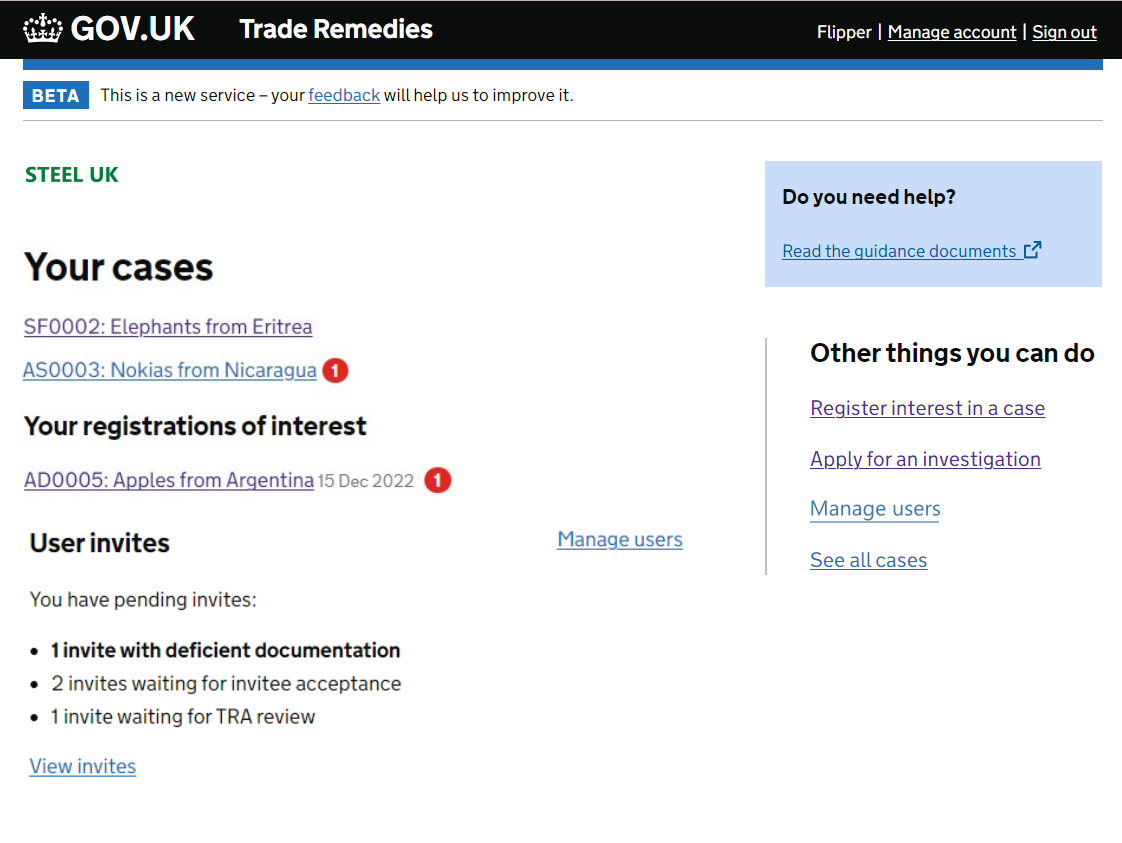
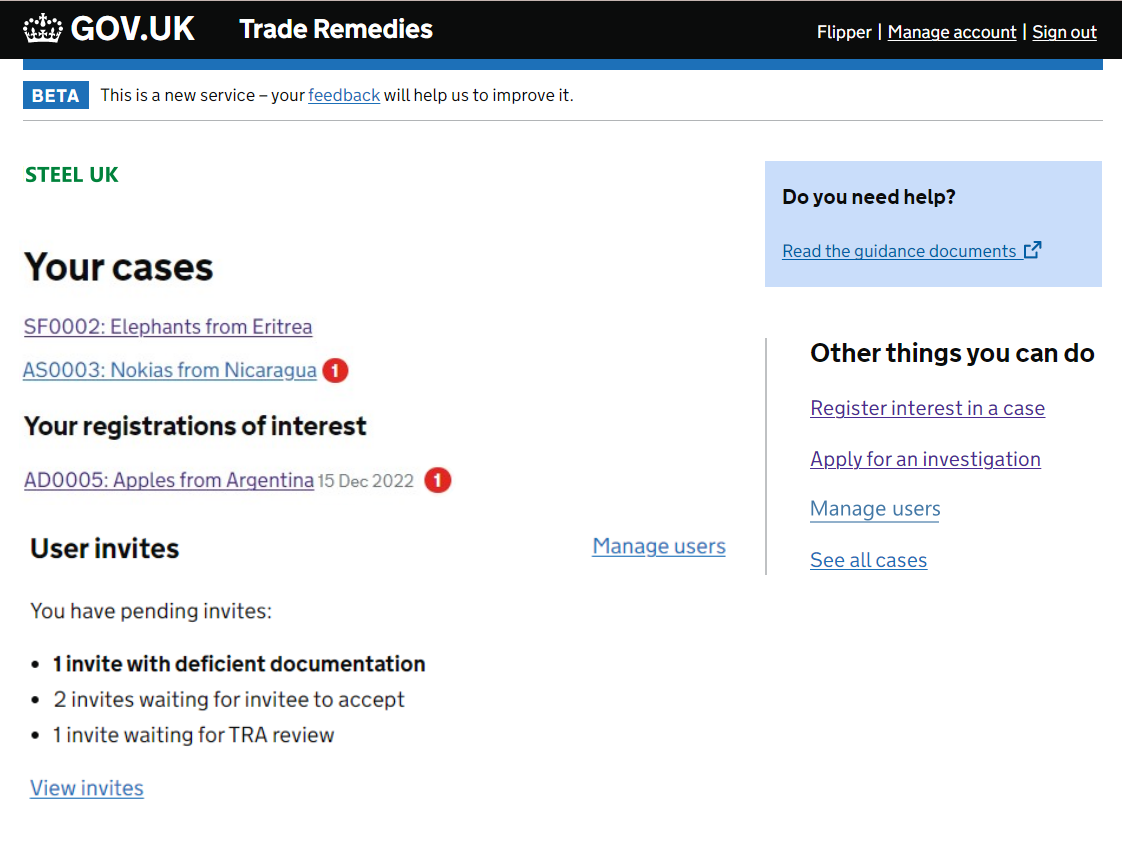
Updates to manage users content

Changed region(s): [[0.0312, 0.6168, 0.3743, 0.9561], [0.4991, 0.6168, 0.6551, 0.6785]]

diff --git a/app/views/public-site/dashboard.html b/app/views/public-site/dashboard.html
@@ -246,7 +246,7 @@
                 </h2>
                 <p>You have pending invites:</p>
                 <ul class="govuk-list govuk-list--bullet">
-                  <li>2 invites waiting for invitee acceptance</li>
+                  <li>2 invites waiting for invitee to accept</li>
                 </ul>
                 <p><a href="/public-site/manage-users/manage-org-user#manage-invites" class="govuk-link--no-visited-state">View invites</a></p>
               </div>
@@ -264,7 +264,7 @@
                   </h2>
                   <p>You have pending invites:</p>
                   <ul class="govuk-list govuk-list--bullet">
-                    <li>1 invite waiting for invitee acceptance</li>
+                    <li>1 invites waiting for invitee to accept</li>
                     <li>1 invite waiting for TRA review</li>
                   </ul>
                   <p><a href="/public-site/manage-users/manage-org-user#manage-invites" class="govuk-link--no-visited-state">View invites</a></p>
@@ -307,7 +307,7 @@
                             1 invite with deficient documentation
                           </strong>
                         </li>
-                        <li>2 invites waiting for invitee acceptance</li>
+                        <li>2 invites waiting for invitee to accept</li>
                         <li>1 invite waiting for TRA review</li>
                       </ul>
                       <p><a href="/public-site/manage-users/manage-org-user#manage-invites" class="govuk-link--no-visited-state">View invites</a></p>

diff --git a/app/views/public-site/manage-users/case-role.html b/app/views/public-site/manage-users/case-role.html
@@ -36,19 +36,16 @@
                 classes: "govuk-fieldset__legend--xl"
               }
             },
-            hint: {
-              html: 'Choose if the user is to be a key point of contact for this organisations involvement in the case. You can have more than one person assigned to this role.'
-            },
             items: [
               {
-                value: "User",
-                text: "User: they can access and interact with the case on behalf of the organisation",
-                checked: checked("case1-permissions", "User")
+                value: "Case contact",
+                text: "Case contact: they can access and manage the case, and are a key point of contact for communication with the TRA.",
+                checked: checked("case1-permissions", "Case contact")
               },
               {
-                value: "Case contact",
-                text: "Case contact: they can access and interact with the case, and are a key point of contact for communication with the TRA.",
-                checked: checked("case1-permissions", "Case contact")
+                value: "User",
+                text: "User: they can access and manage the case on behalf of the organisation. ",
+                checked: checked("case1-permissions", "User")
               }
             ]
           }) }}    

diff --git a/app/views/public-site/manage-users/invite/invite-user-cancel.html b/app/views/public-site/manage-users/invite/invite-user-cancel.html
@@ -24,8 +24,6 @@ Cancel invite - {{serviceName}}
         Cancel invite
       </h1>
 
-      <p>Are you sure you want to cancel this invite?</p>
-
       {% if data['cancel-invite'] =="org" %}
         <p>{{data['invite-user-name'] or data['party-user11'] }} - {{data['invite-user-email'] or data['party-email11'] }}</p>
         <form action="invite-user-cancel-confirm?show-invite-org=no#manage-team" method="post" id="cancel-invite-form">
@@ -37,6 +35,8 @@ Cancel invite - {{serviceName}}
         {% endif %}
           <form action="invite-user-cancel-confirm?show-invite-rep=no" method="post" id="cancel-invite-form">
       {% endif %}
+
+      <p>Are you sure you want to cancel this invite?</p>
 
 
 

diff --git a/app/views/public-site/manage-users/user-account.html b/app/views/public-site/manage-users/user-account.html
@@ -103,10 +103,10 @@
       {% endif %}
       </h2>
       {% if (data['account-user'] =="invite-user-name") and (data['invite-case'] =="None" or data['invite-case'] == null) %}
-        <p>This user is not involved in any cases</p>
+        <p>This user is not involved in any case.</p>
         {% else %}
         {% if (data['account-user'] =="party-user6") %}
-         <p>This user is not involved in any cases</p>
+         <p>This user is not involved in any case</p>
           {% else %}
           <p>Manage the users case involvement.</p>
           <form>

diff --git a/app/views/public-site/manage-users/case-role-error.html b/app/views/public-site/manage-users/case-role-error.html
@@ -24,9 +24,8 @@ There's a problem - {{serviceName}}
       <h1 class="govuk-heading-xl">
         There's a problem
       </h1>
-      <p>You cannot change this users case role.</p>
-      <p>There must always be one user on each case wth the role of Case contact.
-      </p>
+      <p>You cannot change the user’s role in this case.</p>
+      <p>There must always be at least one case contact on a case. </p>
       
       <div class="govuk-button-group">
         {{ govukButton({

diff --git a/app/views/public-site/manage-users/remove-user.html b/app/views/public-site/manage-users/remove-user.html
@@ -25,7 +25,7 @@ Remove user - {{serviceName}}
         Remove user
       </h1>
 
-      <p>Are you sure you want to remove the user from this case? They will no longer be able to access or interact with the case.</p>
+      <p>Are you sure you want to remove the user from this case? They will no longer be able to access or manage the case.</p>
       <p>
         {% if data['account-user'] =="party-user1" %}
           {{data['party-user11'] }} - {{data['party-email11'] }}

diff --git a/app/views/public-site/manage-users/manage-org-user.html b/app/views/public-site/manage-users/manage-org-user.html
@@ -46,7 +46,7 @@
             <a href="invite/invite-user-type?tasklist-type=invite-rep&existing-cases-reps=yes" class="govuk-link--no-visited-state">Invite user</a>
           </span>
         </h2>
-        <p>Manage users giving them access to cases or admin rights for this account.</p>
+        <p>Select a user to manage their access to your cases.</p>
       
         <form>
           <div id="table-sort" class="govuk-visually-hidden--desktop"> 

diff --git a/app/views/public-site/manage-users/invite/invite-user-cancel-confirm.html b/app/views/public-site/manage-users/invite/invite-user-cancel-confirm.html
@@ -23,7 +23,7 @@ Invite cancelled - {{serviceName}}
         Invite cancelled
       </h1>
 
-      <p>We have cancelled the invite. If the user receives the email they will not be able to join your organisation's account. </p>
+      <p>We have cancelled the invite. The user will not be able to join your organisation’s account.</p>
 
       <input type="hidden" id="show-invite" name="show-invite" value="no">
       <div class="govuk-button-group">
